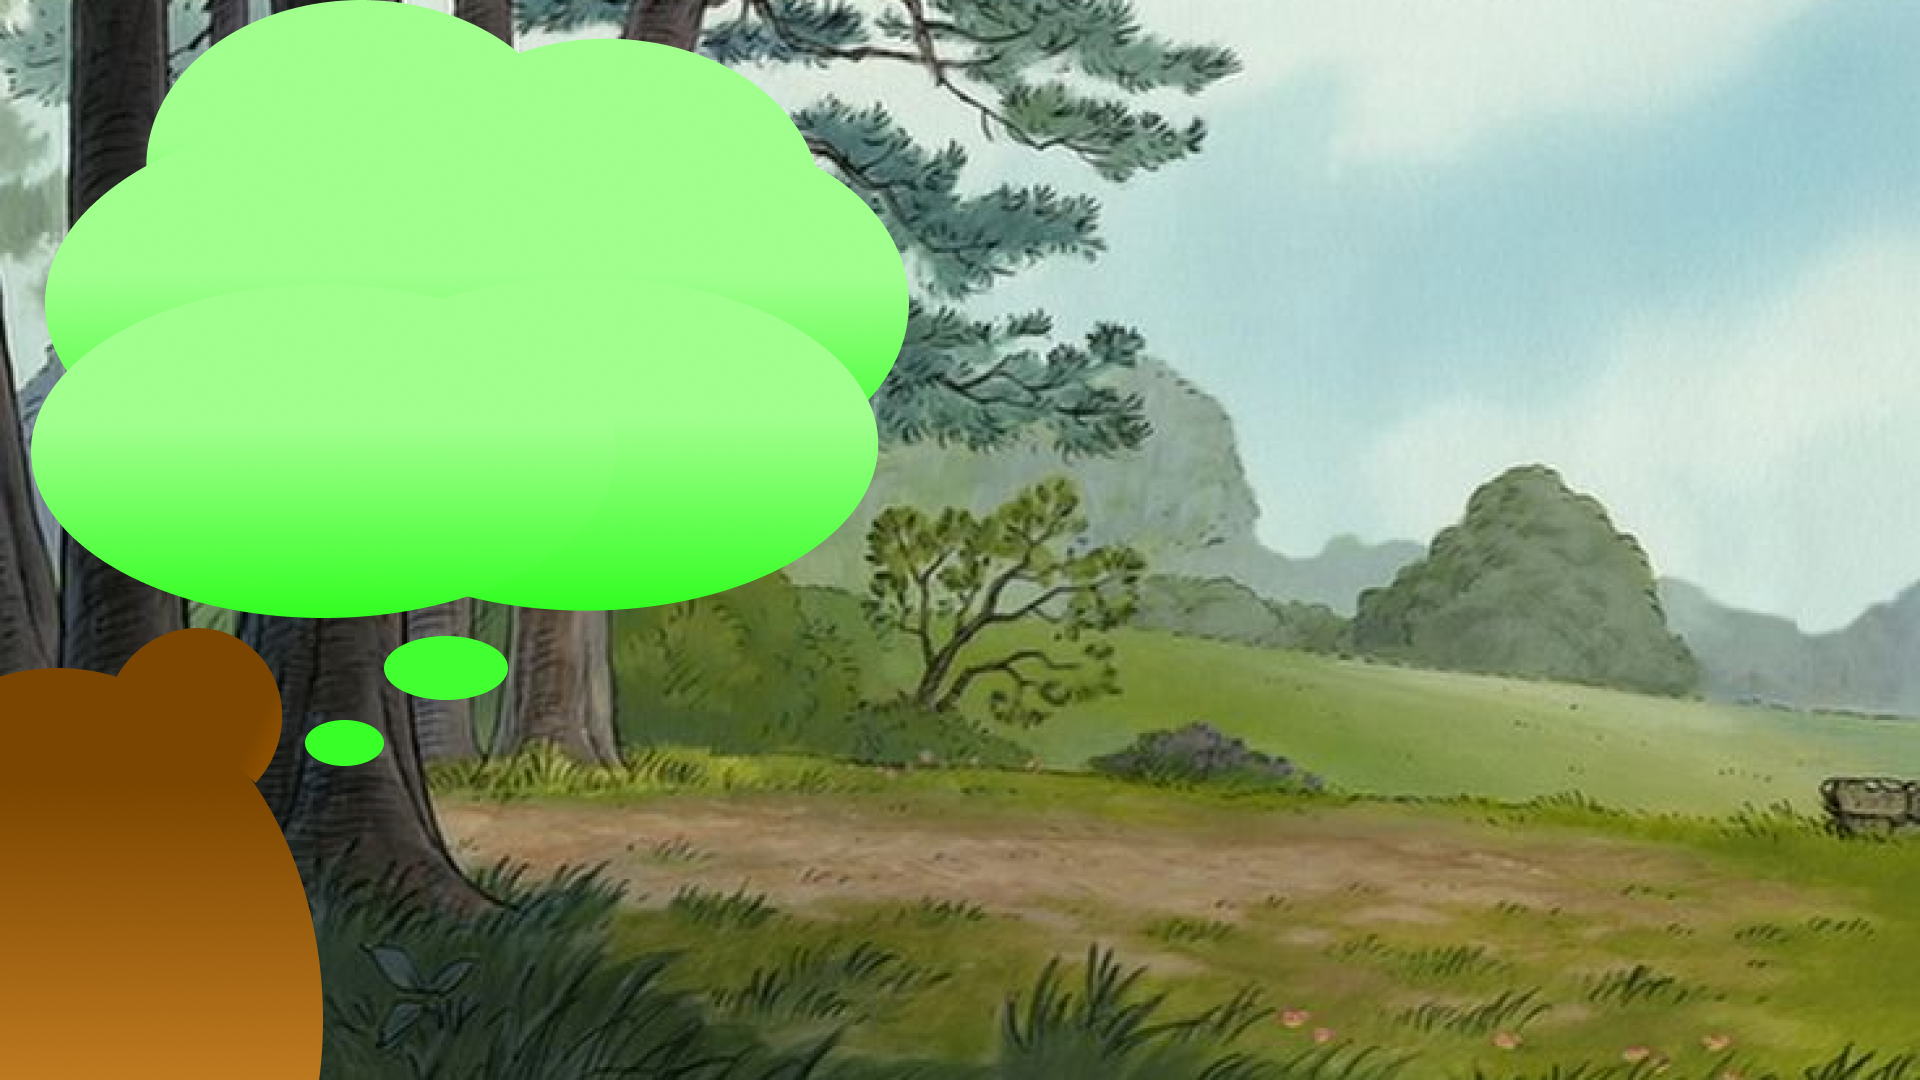
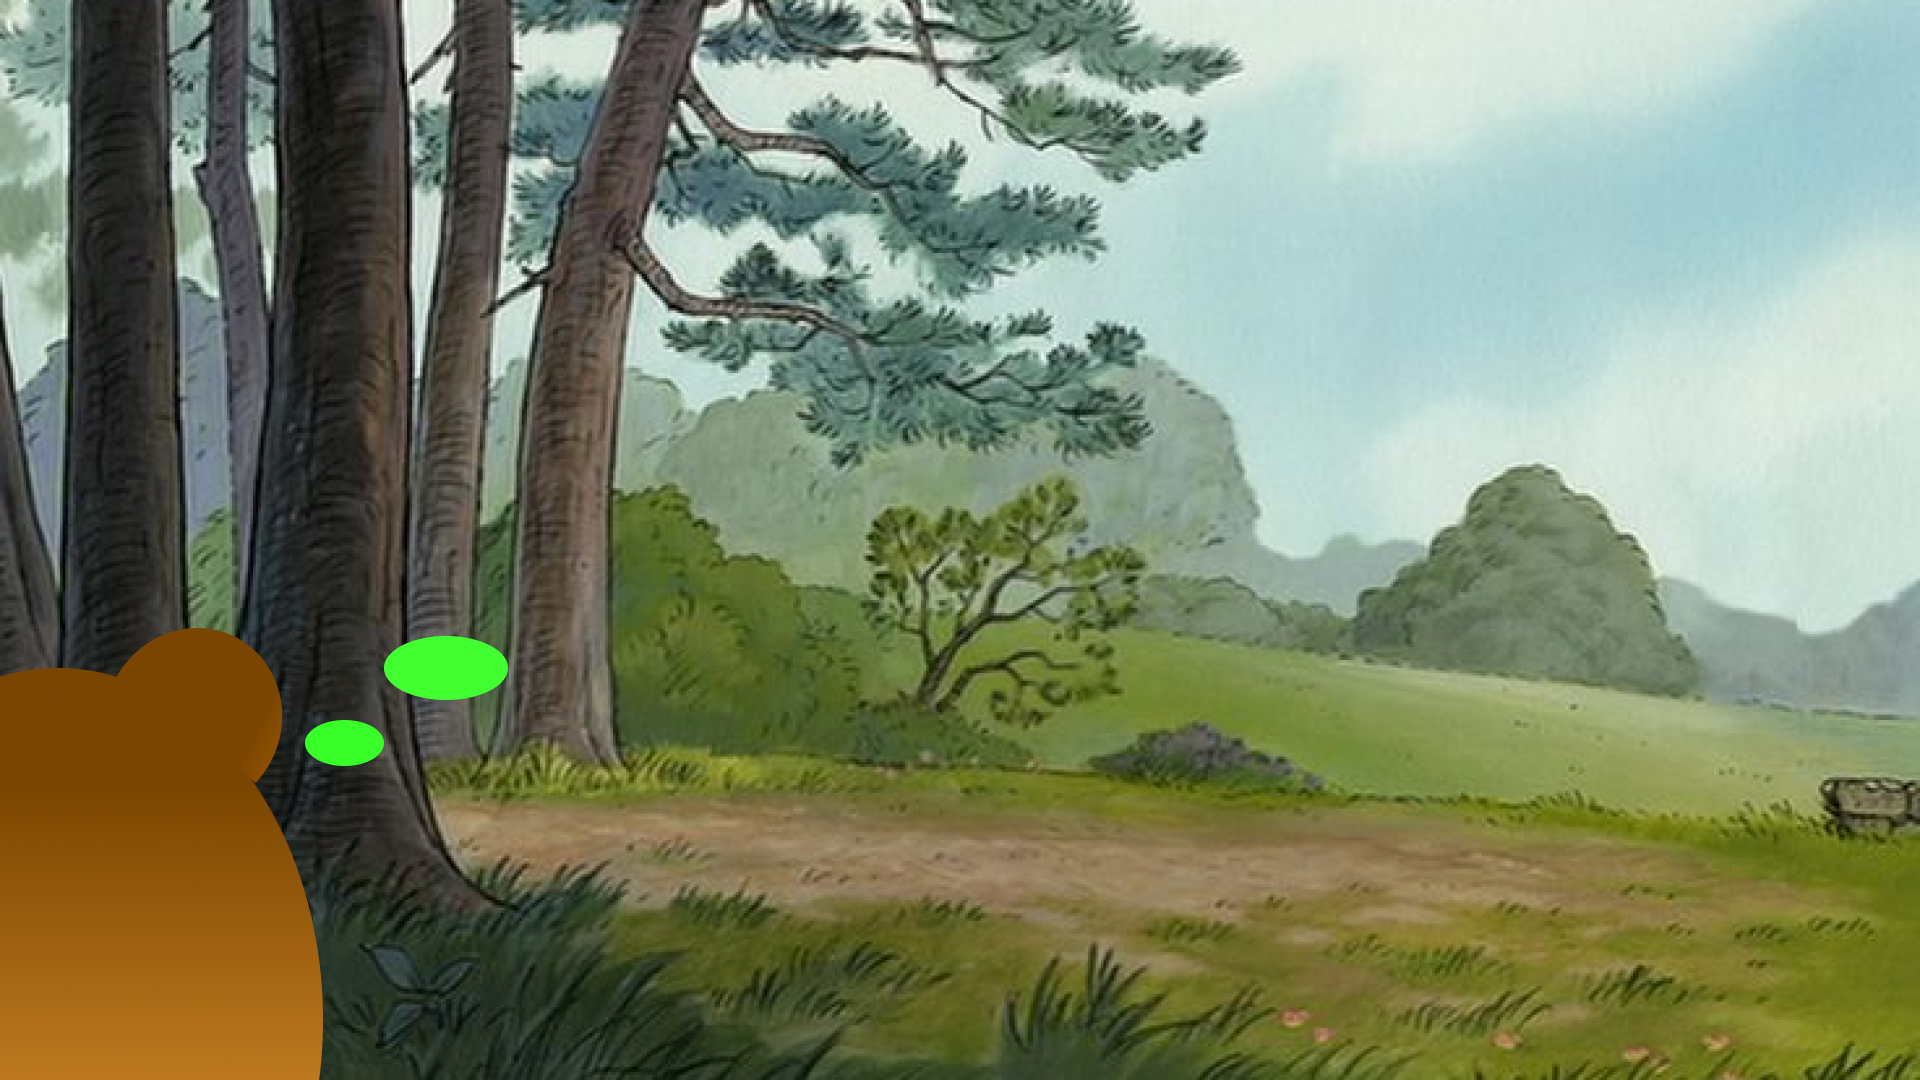
wordserch2

Changed region(s): [[0.0, 0.0, 0.5, 0.5806]]

diff --git a/WordSearch2.html b/WordSearch2.html
@@ -4,12 +4,12 @@
 <head>
     <meta charset="UTF-8">
     <meta name="viewport" content="width=device-width, initial-scale=1.0">
-    <title>Word Search Game 1</title>
+    <title>Word Search Game 2</title>
     <style>
         body {
             display: flex;
             font-family: Arial, sans-serif;
-            background-image: url('background/beargreen.png');
+            background-image: url('background/WordSearch2.png');
             background-size: cover;
             background-position: center;
             background-repeat: no-repeat;
@@ -81,7 +81,7 @@
             background-position: center;
             line-height: 2;
             background-repeat: no-repeat;
-            background-image: url(component/cloundgreen.png);
+            background-image: url(component/cloundblue.png);
             background-size: contain;
             /* ปรับให้เห็นทั้งรูปแบบเต็ม */
 
@@ -92,17 +92,17 @@
 <body>
     <div class="words" id="word-list">
         <div style="margin-top: 140px/*เลื่อนข้อความ*/;">
-            <span data-word="FOX">FOX</span>,
-            <span data-word="BIRD">BIRD</span>,
-            <span data-word="CRICKETS">CRICKETS</span>,
+            <span data-word="WHALE">WHALE</span>,
+            <span data-word="DOLPHIN">DOLPHIN</span>,
+            <span data-word="SHARK">SHARK</span>,
             <br>
-            <span data-word="BEAR">BEAR</span>,
-            <span data-word="POMERNIAN">POMERNIAN</span>,
-            <span data-word="ELEPHANT">ELEPHANT</span>,
+            <span data-word="GOLDFISH">GOLDFISH</span>,
+            <span data-word="WALRUS">WALRUS</span>,
+            <span data-word="CRAB">CRAB</span>,
             <br>
-            <span data-word="OWL">OWL</span>,
-            <span data-word="SQUIRREL">SQUIRREL</span>,
-            <span data-word="SNAKE">SNAKE</span>
+            <span data-word="SEAL">SEAL</span>,
+            <span data-word="OCTOPUS">OCTOPUS</span>,
+            <span data-word="SNAIL">SNAIL</span>
         </div>
 
     </div>
@@ -110,7 +110,7 @@
     <div id="timer" style="height: fit-content;background-color: #7a3700;color: #ffffff;">Time: 00:00</div>
 
     <script>
-        const words = ["FOX", "BIRD", "CRICKETS", "BEAR", "POMERNIAN", "ELEPHANT", "OWL", "SQUIRREL", "SNAKE"];
+        const words = ["WHALE", "DOLPHIN", "SHARK", "GOLDFISH", "WALRUS", "CRAB", "SEAL", "OCTOPUS", "SNAIL"];
         const gridSize = 10;
         let timerInterval;
         let seconds = 0;
@@ -188,15 +188,15 @@
         const wordListElement = document.getElementById("word-list");
 
         const animalSounds = {
-            "FOX": new Audio("animalsound/fox.mp3"),
-            "BIRD": new Audio("animalsound/bird.mp3"),
-            "CRICKETS": new Audio("animalsound/crickets.mp3"),
-            "BEAR": new Audio("animalsound/bear.mp3"),
-            "POMERNIAN": new Audio("animalsound/pompom.mp3"),
-            "ELEPHANT": new Audio("animalsound/elephant.mp3"),
-            "OWL": new Audio("animalsound/owl.mp3"),
-            "SQUIRREL": new Audio("animalsound/squirrel.mp3"),
-            "SNAKE": new Audio("animalsound/snake.mp3")
+            "WHALE": new Audio("animalsound/whale.mp3"),
+            "DOLPHIN": new Audio("animalsound/dolphin.mp3"),
+            "SHARK": new Audio("animalsound/shark.mp3"),
+            "GOLDFISH": new Audio("animalsound/goldfish.mp3"),
+            "WALRUS": new Audio("animalsound/walrus.mp3"),
+            "CRAB": new Audio("animalsound/crab.mp3"),
+            "SEAL": new Audio("animalsound/seal.mp3"),
+            "OCTOPUS": new Audio("animalsound/octopus.mp3"),
+            "SNAIL": new Audio("animalsound/snail.mp3")
         };
 
         const markWordAsFound = (word) => {
@@ -247,16 +247,21 @@
 
                         // แสดงข้อความ popup
                         let message = "You complete the game!";
-                        if (timeTaken >= 180) { // มากกว่าหรือเท่ากับ 3 นาที
-                            starRating = 1;
-                        } else if (timeTaken <= 120) { // น้อยกว่าหรือเท่ากับ 2 นาที
-                            starRating = 2;
-                        } else { // น้อยกว่า 2 นาที
-                            starRating = 3;
+                        if (timeTaken <= 60) {
+                            stars = '⭐⭐⭐⭐⭐';  // ถ้าใช้เวลาไม่เกิน 1 นาที ให้ 5 ดาว
+                        } else if (timeTaken <= 120) {
+                            stars = '⭐⭐⭐⭐';  // ถ้าใช้เวลาไม่เกิน 2 นาที ให้ 4 ดาว
+                        } else if (timeTaken <= 180) {
+                            stars = '⭐⭐⭐';  // ถ้าใช้เวลาไม่เกิน 3 นาที ให้ 3 ดาว
+                        } else if (timeTaken <= 240) {
+                            stars = '⭐⭐'  // ถ้าใช้เวลาไม่เกิน 4 นาที ให้ 2 ดาว
+                        } else {
+                            stars = '⭐';  // ถ้าใช้เวลานานกว่า 4 นาที ให้ 1 ดาว
                         }
 
-                        message += `\nTime taken: ${Math.floor(timeTaken / 60)}:${String(timeTaken % 60).padStart(2, '0')}`;
-                        message += `\nStars: ${starRating}⭐`;
+
+                        message += `\n Time taken: ${Math.floor(timeTaken / 60)}:${String(timeTaken % 60).padStart(2, '0')}`;
+                        message += `\n Stars: ${stars}`;
 
                         // แสดงป๊อปอัพ
                         const popup = document.createElement('div');
@@ -265,15 +270,15 @@
                         popup.style.left = '50%';
                         popup.style.transform = 'translate(-50%, -50%)';
                         popup.style.padding = '20px';
-                        popup.style.backgroundColor = 'rgba(0, 0, 0, 0.8)';
+                        popup.style.backgroundColor = '#000000';
                         popup.style.color = '#fff';
                         popup.style.borderRadius = '10px';
                         popup.style.textAlign = 'center';
                         popup.style.zIndex = '1000';
                         popup.innerHTML = `
-                    <p>${message}</p>
-                    <button onclick="window.location.href='WordSearch2.html'">Next Page</button>
-                `;
+                            <p>${message}</p>
+                            <button onclick="window.location.href='WordSearch2.html'">Next Page</button>
+                        `;
                         document.body.appendChild(popup);
                     }
                 } else {
@@ -286,6 +291,56 @@
                 selectedCells = [];
             }
         };
+
+/* 
+        const showPopup = () => {
+    const timeTaken = 120; // กำหนดเวลา (ในวินาที) สำหรับตัวอย่าง
+    let starRating = 0;    // กำหนดค่าดาวเริ่มต้น
+
+    // ใช้เงื่อนไขในการกำหนดจำนวนดาว
+    if (timeTaken <= 60) {
+        starRating = 5;  // ถ้าใช้เวลาไม่เกิน 1 นาที ให้ 5 ดาว
+    } else if (timeTaken <= 120) {
+        starRating = 4;  // ถ้าใช้เวลาไม่เกิน 2 นาที ให้ 4 ดาว
+    } else if (timeTaken <= 180) {
+        starRating = 3;  // ถ้าใช้เวลาไม่เกิน 3 นาที ให้ 3 ดาว
+    } else if (timeTaken <= 240) {
+        starRating = 2;  // ถ้าใช้เวลาไม่เกิน 4 นาที ให้ 2 ดาว
+    } else {
+        starRating = 1;  // ถ้าใช้เวลานานกว่า 4 นาที ให้ 1 ดาว
+    }
+
+    let message = "You complete the game!";
+    message += `\nTime taken: ${Math.floor(timeTaken / 60)}:${String(timeTaken % 60).padStart(2, '0')}`;
+
+    // สร้างดาวจากการใช้ไอคอน
+    let stars = '';
+    for (let i = 0; i < starRating; i++) {
+        stars += '⭐';  // ใช้ไอคอนดาว
+    }
+    message += `\nStars: ${stars}`;
+
+    // สร้าง popup
+    const popup = document.createElement('div');
+    popup.style.position = 'fixed';
+    popup.style.top = '50%';
+    popup.style.left = '50%';
+    popup.style.transform = 'translate(-50%, -50%)';
+    popup.style.padding = '20px';
+    popup.style.backgroundColor = '#000000';
+    popup.style.color = '#fff';
+    popup.style.borderRadius = '10px';
+    popup.style.textAlign = 'center';
+    popup.style.zIndex = '1000';
+    popup.innerHTML = `
+        <p>${message}</p>
+        <button onclick="window.location.href='WordSearch2.html'">Next Page</button>
+    `;
+    document.body.appendChild(popup);
+};
+ */
+// เรียกใช้ฟังก์ชันแสดง popup ทันที
+//showPopup();
 
 
         gridContainer.addEventListener("mousedown", startSelection);

diff --git a/WordSearch1.html b/WordSearch1.html
@@ -9,7 +9,7 @@
         body {
             display: flex;
             font-family: Arial, sans-serif;
-            background-image: url('background/beargreen.png');
+            background-image: url('background/WordSearch1.png');
             background-size: cover;
             background-position: center;
             background-repeat: no-repeat;
@@ -292,8 +292,9 @@
             }
         };
 
-/* 
-        const showPopup = () => {
+
+    //ทดลองโชว์PopUp
+    const showPopup = () => {
     const timeTaken = 120; // กำหนดเวลา (ในวินาที) สำหรับตัวอย่าง
     let starRating = 0;    // กำหนดค่าดาวเริ่มต้น
 
@@ -338,9 +339,9 @@
     `;
     document.body.appendChild(popup);
 };
- */
-// เรียกใช้ฟังก์ชันแสดง popup ทันที
-//showPopup();
+
+    // เรียกใช้ฟังก์ชันแสดง popup ทันที
+    //showPopup();
 
 
         gridContainer.addEventListener("mousedown", startSelection);
